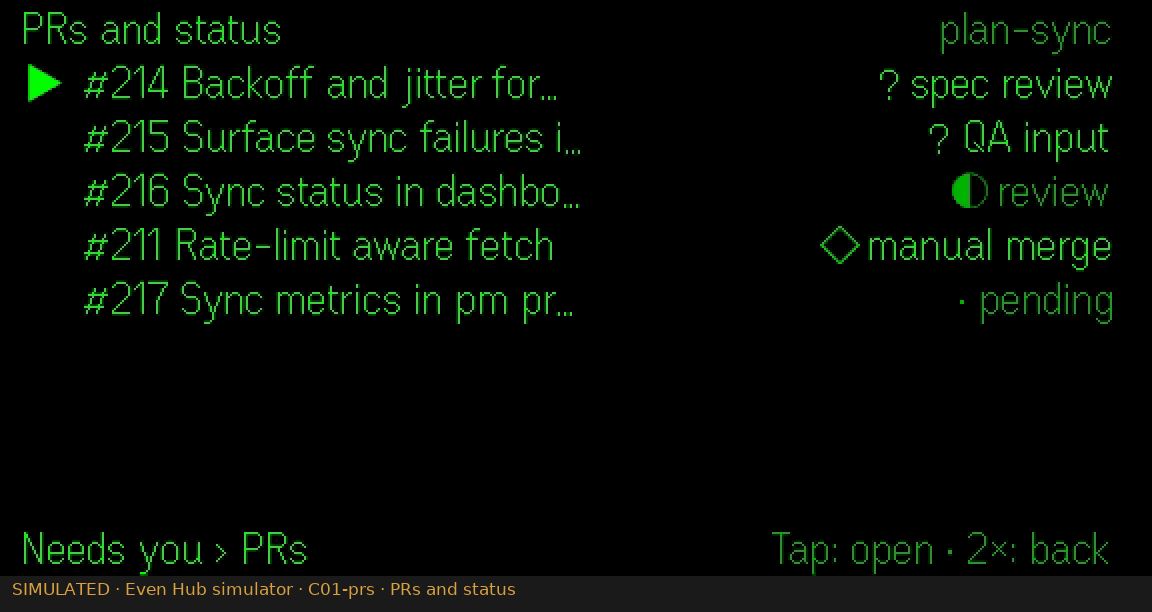
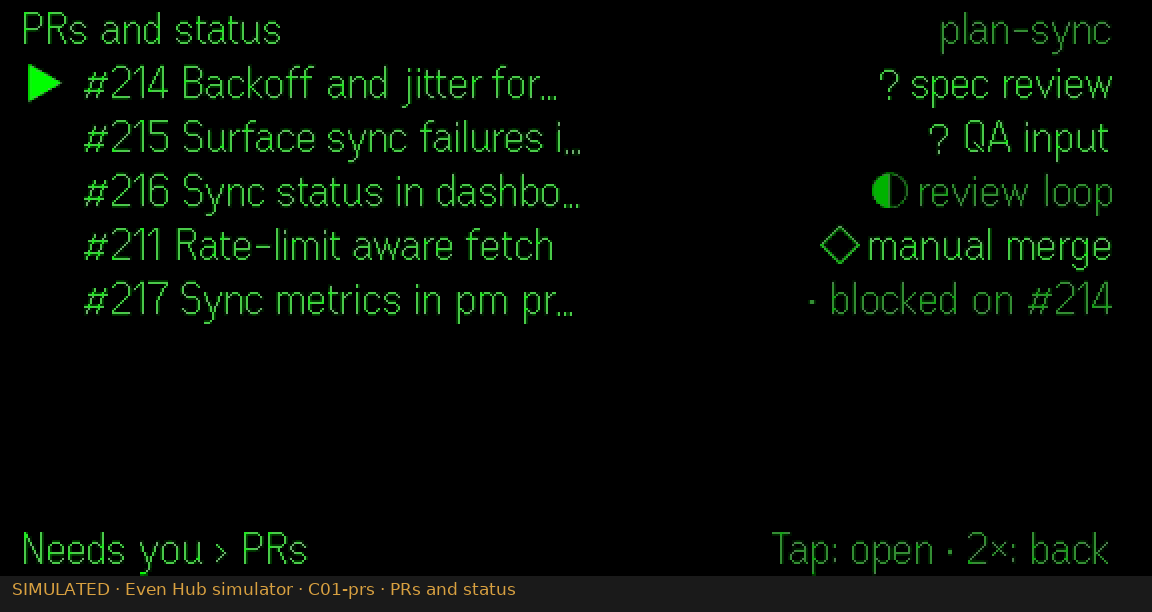
qa: preview shows mirror + demo buttons in a plain browser, PR list says review loop / blocked, phone shows refused sends, reload starts fresh
- main.js: the SDK resolves a bridge even in a plain browser, so the
  preview went to "even" mode and hid the glasses mirror and demo buttons
  (disconnect/reconnect unreachable). Require the host's injected
  window.flutter_inappwebview (Even app, official simulator) first.
- main.js: a freshly loaded page replayed every event already in the
  server's director queue (reload showed Plan sync v5, moved #211 head).
  The first poll now only skips to the queue end, before the first frame.
- app.js: PR list showed "review" for a review loop and "pending" for a
  PR blocked on an unmerged dependency; now "review loop" and
  "blocked on #214".
- companion.js: a send typed on the phone while PM is unreachable showed
  nothing on the phone and dropped the typed text; the companion now
  shows the same notice as the glasses footer and keeps refused text.
- Recaptured screenshots (C01, phone B09) and regenerated the gallery.

Changed region(s): [[0.7188, 0.4657, 0.9688, 0.5278], [0.75, 0.2794, 0.9688, 0.3415]]

diff --git a/pm/docs/even-realities/mockup/src/main.js b/pm/docs/even-realities/mockup/src/main.js
@@ -42,8 +42,10 @@ function applyDirector(e) {
 // Poll on an interval with an in-flight guard: a single lost timer callback
 // (the SDK wraps WebView timers) cannot stop the director, and the request
 // timeout keeps one hung fetch from holding the guard forever.
+// The first poll only skips to the queue's end: events posted for an earlier
+// page load (a previous capture or demo) must not replay into fresh state.
 let polling = false;
-async function pollDirector() {
+async function pollDirector(skip = false) {
   if (polling) return;
   polling = true;
   const abort = new AbortController();
@@ -53,15 +55,23 @@ async function pollDirector() {
     if (r.ok) {
       const { events, seq } = await r.json();
       directorSeq = seq;
-      for (const e of events) { log(`DIRECTOR ${e.type}`); applyDirector(e); }
+      if (!skip) for (const e of events) { log(`DIRECTOR ${e.type}`); applyDirector(e); }
     }
   } catch (e) { if (!directorFailed) log(`DIRECTOR unavailable: ${e?.message || e}`); directorFailed = true; }
   finally { clearTimeout(timer); polling = false; }
 }
 
+// The SDK hands out a bridge even in a plain browser (its postMessage then
+// fails), so only the host's injected window.flutter_inappwebview (Even app,
+// official simulator) means glasses are attached.
+async function hasEvenHost(ms) {
+  for (const end = Date.now() + ms; !window.flutter_inappwebview && Date.now() < end;) await new Promise(r => setTimeout(r, 100));
+  return Boolean(window.flutter_inappwebview);
+}
+
 async function connectGlasses() {
-  const bridge = await Promise.race([waitForEvenAppBridge(), new Promise(r => setTimeout(() => r(null), 2500))]);
-  if (!bridge) { document.body.dataset.mode = 'browser'; log('No Even bridge: browser preview only'); return; }
+  const bridge = await hasEvenHost(2500) && await Promise.race([waitForEvenAppBridge(), new Promise(r => setTimeout(() => r(null), 2500))]);
+  if (!bridge) { document.body.dataset.mode = 'browser'; log('No Even host: browser preview only'); return; }
   document.body.dataset.mode = 'even';
   glasses = new SdkDisplay(bridge, log);
   bridge.onEvenHubEvent(event => {
@@ -85,6 +95,8 @@ for (const b of document.querySelectorAll('[data-demo]')) {
 }
 
 draw();
+// Before the first glasses frame, so the capture script (which waits for that
+// frame before posting) cannot have its first event skipped.
+await pollDirector(true);
 connectGlasses();
-pollDirector();
 setInterval(pollDirector, 150);

diff --git a/pm/docs/even-realities/mockup/src/companion.js b/pm/docs/even-realities/mockup/src/companion.js
@@ -10,7 +10,10 @@ export function renderCompanion(root, app, pm, act) {
   const v = app.view;
   const parts = [];
   const conn = pm.conn.state === 'ok' ? '' : `<p class="warn">↔ ${pm.conn.state === 'offline' ? 'PM offline' : 'Reconnecting to PM'} · data ${fmtAge(pm.conn.staleFor)} old · actions are refused, not queued</p>`;
-  parts.push(`<header><b>PM on glasses</b> <span class="sim">SIMULATED PM data</span><br><small>${esc(pm.project.name)} · ${esc(pm.now())} · glasses view: <code>${esc(app.sceneId())}</code></small></header>${conn}`);
+  // The glasses footer notice (sent, queued, refused) also shows here, so a
+  // send typed on the phone gets its answer on the phone.
+  const notice = app.toast ? `<p class="${app.toast.startsWith('!') ? 'warn' : 'muted'}" role="status">${esc(app.toast)}</p>` : '';
+  parts.push(`<header><b>PM on glasses</b> <span class="sim">SIMULATED PM data</span><br><small>${esc(pm.project.name)} · ${esc(pm.now())} · glasses view: <code>${esc(app.sceneId())}</code></small></header>${conn}${notice}`);
   if (v.type === 'doc') {
     const d = pm.doc(v.docId), shown = pm.version(v.docId, v.version), latest = pm.latest(v.docId);
     parts.push(`<h2>${esc(d.label)} <small>v${shown.n} · ${shown.hash} · ${esc(d.path)}</small></h2>`);
@@ -42,5 +45,7 @@ export function renderCompanion(root, app, pm, act) {
     if (r.ok) app.say(r.queued ? `Queued from phone in ${app.sessionName(pm.session(v.id))} (busy) · same session` : `Sent from phone to ${app.sessionName(pm.session(v.id))}`);
     else app.fail(r);
     act('noop');
+    // A refused message was not sent; keep it so the user can send it later.
+    if (!r.ok) { const again = root.querySelector('form.compose input'); if (again) again.value = text; }
   });
 }

diff --git a/pm/docs/even-realities/mockup/src/app.js b/pm/docs/even-realities/mockup/src/app.js
@@ -290,7 +290,7 @@ export class App {
         }
         return out;
       }
-      case 'prs': return pm.prs.filter(p => p.status !== 'merged').map(p => it(`#${p.num} ${p.title}`, { t: prState(p), dim: !p.needs }, () => this.push({ type: 'list', kind: 'pr', pr: p.id, cursor: 0, top: 0 })));
+      case 'prs': return pm.prs.filter(p => p.status !== 'merged').map(p => it(`#${p.num} ${p.title}`, { t: prState(p, pm), dim: !p.needs }, () => this.push({ type: 'list', kind: 'pr', pr: p.id, cursor: 0, top: 0 })));
       case 'pr': {
         const p = pm.pr(v.pr);
         const out = [it([{ t: p.activity, dim: false }], null, null)];
@@ -705,11 +705,14 @@ function scenarioSummary(parts) {
   if (work) return { t: `${glyphFor(work.state)} ${work.stateText}`, dim: true };
   return { t: '·', dim: true };
 }
-function prState(p) {
+function prState(p, pm) {
   if (p.needs === 'spec') return '? spec review';
   if (p.needs === 'qa-input') return '? QA input';
   if (p.needs === 'merge') return '◇ manual merge';
-  return { in_progress: '◐ impl', in_review: '◐ review', qa: '◐ QA', sign_off: '◐ sign-off', pending: '· pending', merged: '■ merged' }[p.status] || p.status;
+  // A pending PR waiting on unmerged dependencies is governed by them.
+  const blockers = p.status === 'pending' ? p.deps.map(d => pm.pr(d)).filter(d => d && d.status !== 'merged') : [];
+  if (blockers.length) return `· blocked on ${blockers.map(d => `#${d.num}`).join(' ')}`;
+  return { in_progress: '◐ impl', in_review: '◐ review loop', qa: '◐ QA', sign_off: '◐ sign-off', pending: '· pending', merged: '■ merged' }[p.status] || p.status;
 }
 function defaultTimeline(pm, p) {
   const d = Object.values(pm.docs).find(x => x.pr === p.id && x.approved);

diff --git a/pm/docs/even-realities/index.html b/pm/docs/even-realities/index.html
@@ -39,7 +39,7 @@
     <li><a href="pageborne-snapshot.md">Pageborne snapshot provenance</a></li>
     <li><a href="mockup/README.md">Run the mockup</a></li>
   </ul>
-  <p class="note"><b>What is simulated.</b> All PM state, agent replies, document revisions, connection changes and speech recognition are SIMULATED by the mockup. Inputs are real simulator touchpad actions. Each image is the simulator's 576×288 glasses framebuffer, shown at 2× on black with a caption strip; follow "raw" for the original PNG. Captured 2026-10-22 14:25 UTC with @evenrealities/evenhub-simulator 0.9.5, @evenrealities/even_hub_sdk 0.0.16 and @evenrealities/pretext 0.1.4 on linux-arm64. The simulator does not model firmware timing, Bluetooth or phone lifecycles; no constraint or SDK errors were logged during capture.</p>
+  <p class="note"><b>What is simulated.</b> All PM state, agent replies, document revisions, connection changes and speech recognition are SIMULATED by the mockup. Inputs are real simulator touchpad actions. Each image is the simulator's 576×288 glasses framebuffer, shown at 2× on black with a caption strip; follow "raw" for the original PNG. Captured 2026-10-22 14:46 UTC with @evenrealities/evenhub-simulator 0.9.5, @evenrealities/even_hub_sdk 0.0.16 and @evenrealities/pretext 0.1.4 on linux-arm64. The simulator does not model firmware timing, Bluetooth or phone lifecycles; no constraint or SDK errors were logged during capture.</p>
   <h2 id="journey-A">A. Read a spec, discuss it in its session, revise, approve, hand back to PM</h2>
   <div class="grid">
   <figure id="A01-needs-you">
